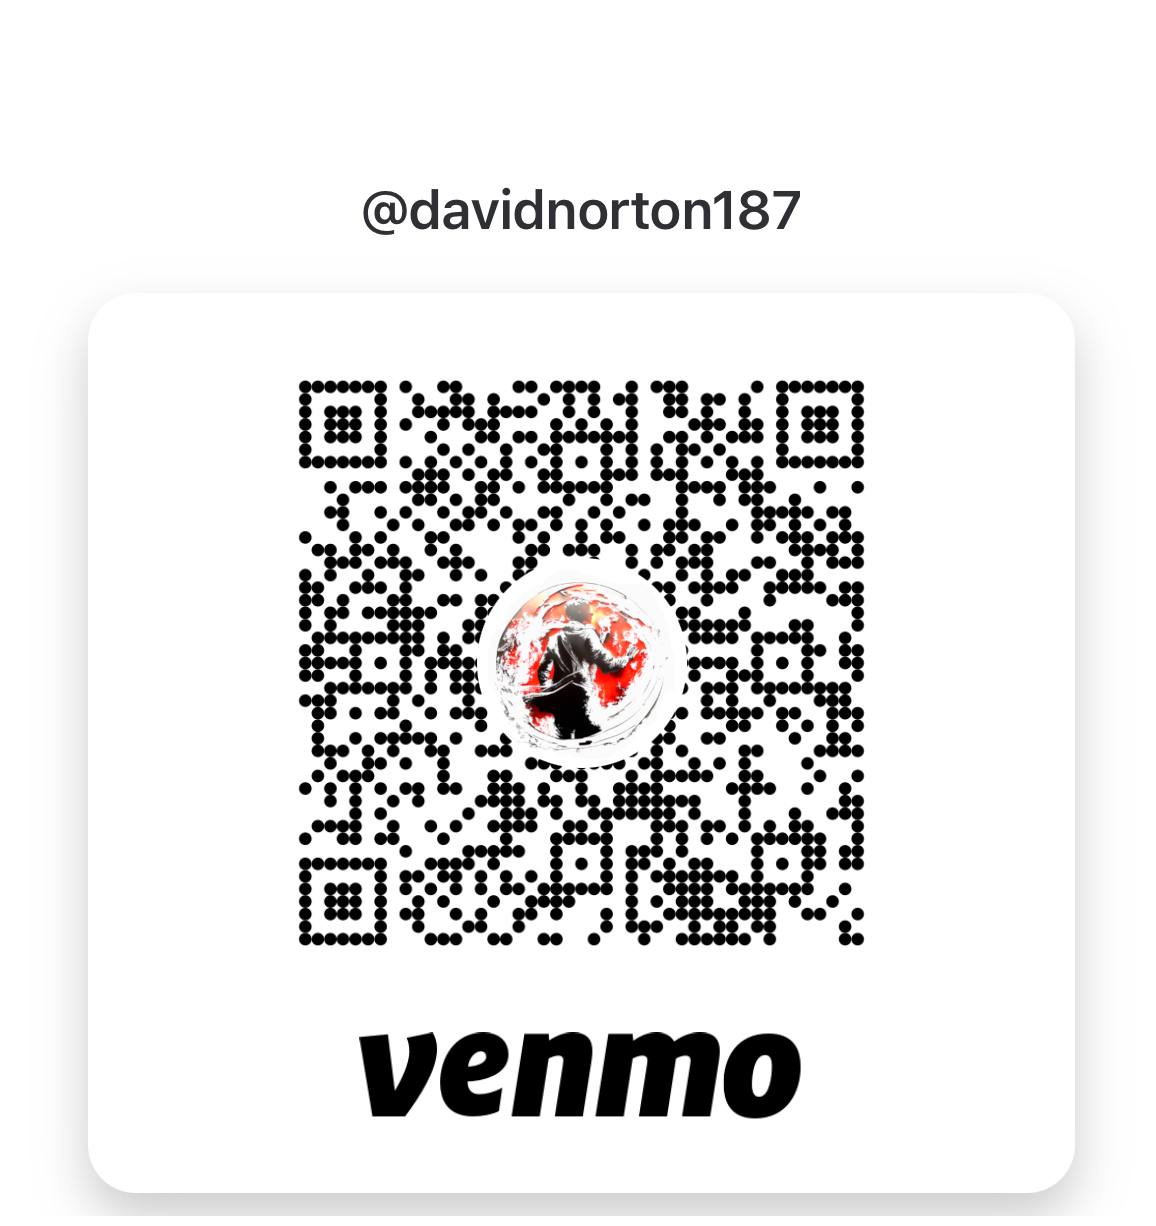
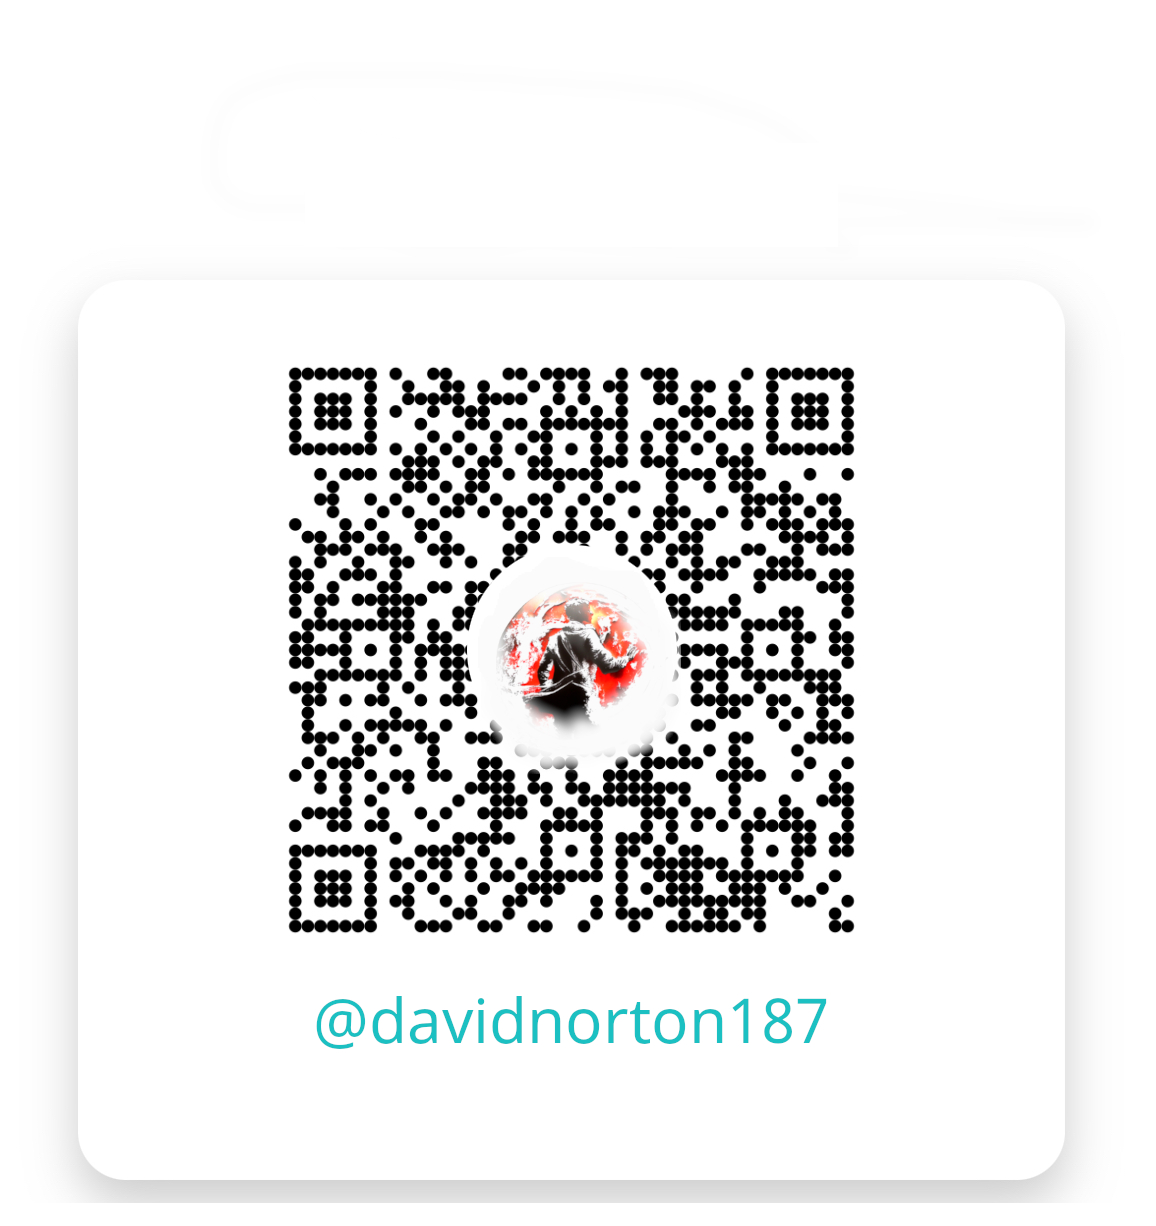
stepping stone for graphics, still ugly

diff --git a/public/donation.html b/public/donation.html
@@ -30,13 +30,16 @@
             </p>
             <div class="flex space-x-4">
                 <!-- PayPal Button -->
-                <a href="https://www.paypal.com/donate" target="_blank" class="button bg-blue-500 text-white px-4 py-2 rounded hover:bg-blue-600">
+                <a href="https://paypal.me/silvermedal?country.x=US&locale.x=en_US" target="_blank" class="button bg-blue-500 text-white px-4 py-2 rounded hover:bg-blue-600">
                     Donate via PayPal
                 </a>
                 <!-- Venmo Button - use venmo_qr_code_norton_solutions.jpg -->
                 <a href="https://venmo.com/?txn=pay&audience=public&recipients=NortonSolutions" target="_blank" class="button bg-purple-500 text-white px-4 py-2 rounded hover:bg-purple-600">
-                    <img src="venmo_qr_code_norton_solutions.jpg" alt="Venmo QR Code" class="w-8 h-8 inline-block mr-2">
+                    <img src="venmo_qr_code_norton_solutions.jpg" alt="Venmo QR Code" class="w-8 h-8 inline-block mr-2" width="32" height="32">
+                    <img src="silver_medal_venmo_qr_code.png" alt="Venmo QR Code" class="w-8 h-8 inline-block mr-2" width="32" height="32">
                     </a>
+
+                    <!-- repeat but use silver_medal_venmo_qr_code.png -->
 
                     Donate via Venmo
                 </a>
